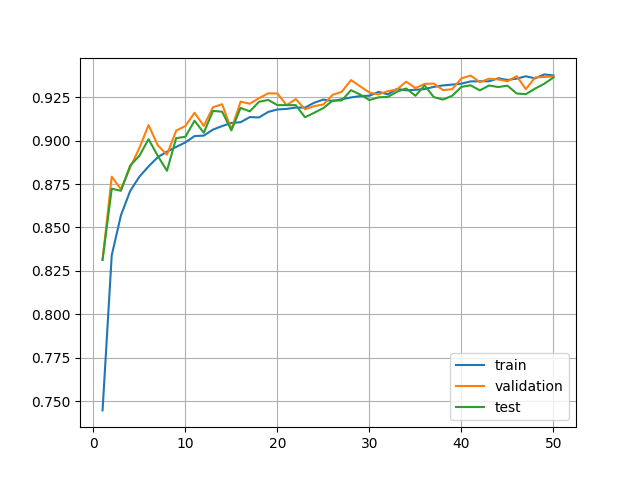
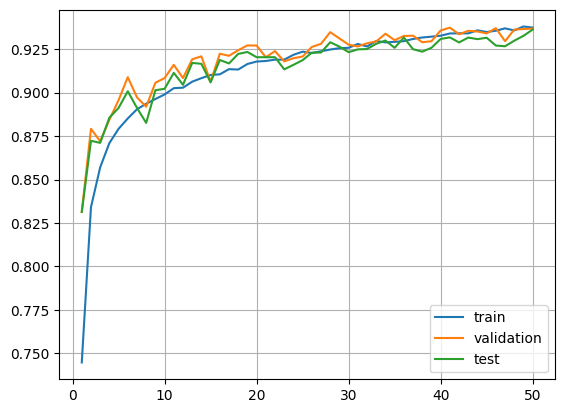
Better chars and rerun cnn eval

diff --git a/cnn/eval.py b/cnn/eval.py
@@ -6,7 +6,7 @@ from matplotlib import pyplot as plt
 import sklearn.metrics
 import torch
 
-from shared import get_loaders, make_model, device
+from shared import PROJECT_DIR, get_loaders, make_model, device
 
 
 print("=" * 60)
@@ -123,15 +123,15 @@ sns.heatmap(
 plt.xticks(rotation=45, ha="right")
 plt.xlabel("Predicted Label")
 plt.ylabel("True Label")
-plt.show()
-
+plt.tight_layout()
+plt.savefig(PROJECT_DIR / "plots/cnn/confusion.png", bbox_inches="tight")
 # %% Visualize misclassified examples
 print("\n[MISCLASSIFIED EXAMPLES]")
 
 # Configuration
 N_PAIRS = 9  # Number of top misclassification pairs to display
 SAMPLES_PER_PAIR = 9  # Number of random samples per pair
-IMG_SIZE_INCHES = 2  # Size of each 28x28 image in inches
+IMG_SIZE_INCHES = 1.5  # Size of each 28x28 image in inches
 
 # Find incorrect predictions
 incorrect_mask = pred_test != y_test
@@ -160,7 +160,7 @@ top_n_pairs = sorted(pair_counts.items(), key=lambda x: x[1], reverse=True)[:N_P
 print(f"Top {N_PAIRS} misclassification pairs:")
 for (true_label, pred_label), count in top_n_pairs:
     shown_incorrect += count
-    print(f"  {class_names[true_label]} → {class_names[pred_label]}: {count} examples")
+    print(f"  {class_names[true_label]} -> {class_names[pred_label]}: {count} examples")
 
 print(
     f"Sampling {shown_incorrect} examples from {total_incorrect} total. {shown_incorrect / total_incorrect:.2%} of total"
@@ -216,7 +216,8 @@ for row, ((true_label, pred_label), count) in enumerate(top_n_pairs):
 
 plt.tight_layout()
 plt.subplots_adjust(top=0.95)
-plt.show()
+
+plt.savefig(PROJECT_DIR / "plots/cnn/misclassified.png", bbox_inches="tight")
 
 print(f"\n[{time.time() - total_start:.2f}s] Evaluation complete")
 # %%

diff --git a/cnn/plot_train_logs.py b/cnn/plot_train_logs.py
@@ -12,5 +12,5 @@ plt.plot(df["epoch"], df["val_acc"], label="validation")
 plt.plot(df["epoch"], df["test_acc"], label="test")
 plt.legend()
 plt.grid()
-plt.savefig(PROJECT_DIR / "plots/cnn/training.png")
+plt.savefig(PROJECT_DIR / "plots/cnn/training.png", bbox_inches="tight")
 # %%
